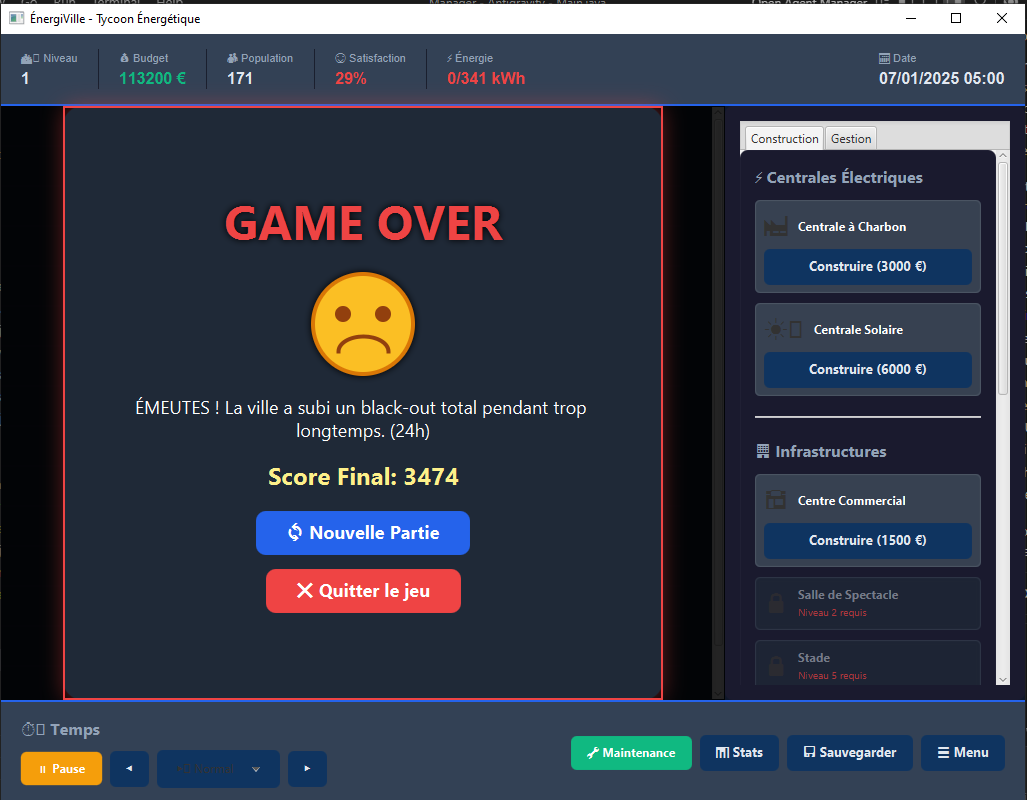
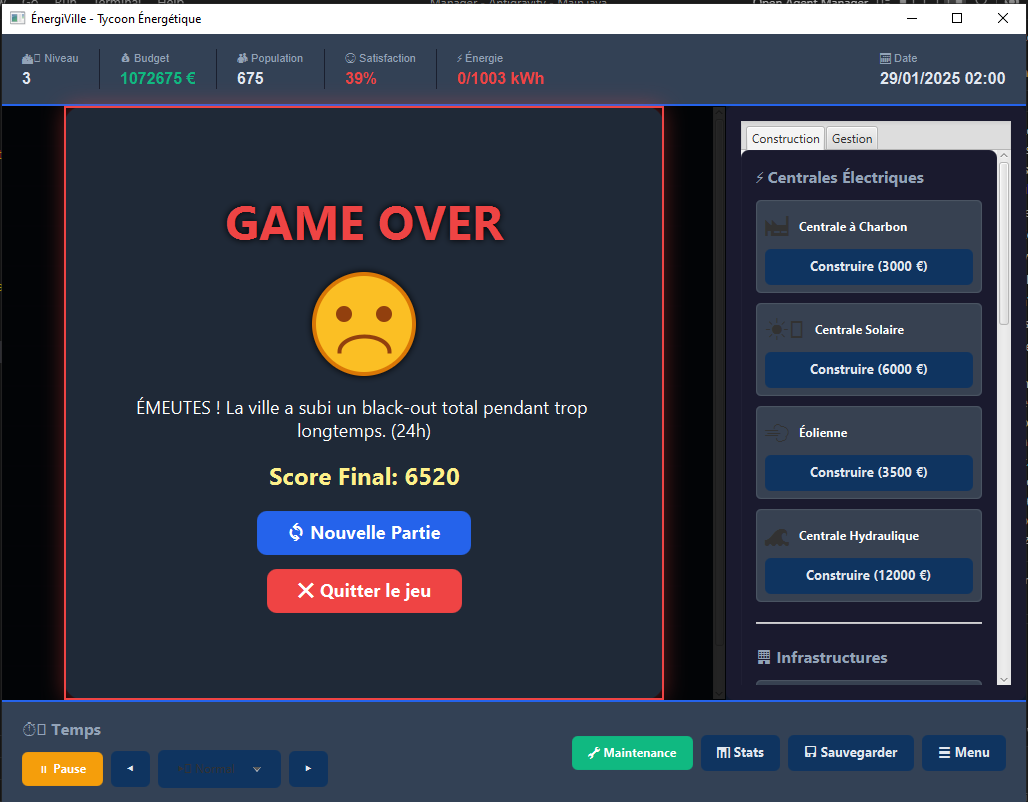
evolution de la ville plus des evenement aleatoire

diff --git a/src/main/java/org/td/model/simulation/RandomEventManager.java b/src/main/java/org/td/model/simulation/RandomEventManager.java
@@ -1,0 +1,169 @@
+package org.td.model.simulation;
+
+import org.td.model.entities.City;
+import org.td.model.entities.Residence;
+import org.td.model.enums.ResidenceLevel;
+import org.td.model.enums.EventType;
+import org.td.controller.GameEventListener;
+
+import java.io.Serializable;
+import java.util.Random;
+import java.util.ArrayList;
+import java.util.List;
+
+/**
+ * Gère les événements aléatoires (Canicule, Crise, etc.)
+ */
+public class RandomEventManager implements Serializable {
+    private static final long serialVersionUID = 1L;
+
+    private City city;
+    private Random random;
+    private List<GameEventListener> listeners;
+
+    // État de l'événement en cours
+    private GameEvent currentEvent;
+    private int eventDurationRemaining; // En heures de jeu
+
+    // Paramètres
+    private static final double EVENT_PROBABILITY = 0.005; // 0.5% de chance par heure (~1 événement tous les 8-10
+                                                           // jours)
+
+    public RandomEventManager(City city) {
+        this.city = city;
+        this.random = new Random();
+        this.listeners = new ArrayList<>();
+    }
+
+    public void update() {
+        // Si un événement est en cours
+        if (currentEvent != null) {
+            eventDurationRemaining--;
+            if (eventDurationRemaining <= 0) {
+                endCurrentEvent();
+            }
+            return; // Pas de nouvel événement tant qu'un est actif
+        }
+
+        // Tirage au sort d'un nouvel événement
+        if (random.nextDouble() < EVENT_PROBABILITY) {
+            triggerRandomEvent();
+        }
+    }
+
+    private void triggerRandomEvent() {
+        GameEvent[] events = GameEvent.values();
+        GameEvent newEvent = events[random.nextInt(events.length)];
+        startEvent(newEvent);
+    }
+
+    public void startEvent(GameEvent event) {
+        this.currentEvent = event;
+        // Durée aléatoire entre min et max (en heures)
+        this.eventDurationRemaining = event.getMinDuration()
+                + random.nextInt(event.getMaxDuration() - event.getMinDuration());
+
+        applyEventEffects(event, true);
+        notifyEvent("⚠ ÉVÉNEMENT : " + event.getDisplayName(), EventType.WARNING);
+        notifyEvent(event.getDescription(), EventType.INFO);
+    }
+
+    private void endCurrentEvent() {
+        if (currentEvent != null) {
+            notifyEvent("✅ FIN DE L'ÉVÉNEMENT : " + currentEvent.getDisplayName(), EventType.SUCCESS);
+            applyEventEffects(currentEvent, false);
+            currentEvent = null;
+        }
+    }
+
+    private void applyEventEffects(GameEvent event, boolean isActive) {
+        switch (event) {
+            case HEATWAVE:
+                // +50% Demande énergétique
+                city.setGlobalEnergyDemandMultiplier(isActive ? 1.5 : 1.0);
+                break;
+            case COLD_SNAP:
+                // +30% Demande énergétique
+                city.setGlobalEnergyDemandMultiplier(isActive ? 1.3 : 1.0);
+                break;
+            case ECONOMIC_CRISIS:
+                // -40% Revenus
+                city.setGlobalRevenueMultiplier(isActive ? 0.6 : 1.0);
+                break;
+            case BABY_BOOM:
+                if (isActive) {
+                    // Effet instantané : on ajoute 3 à 5 résidences
+                    int buildingsToAdd = 3 + random.nextInt(3);
+                    for (int i = 0; i < buildingsToAdd; i++) {
+                        int x = 100 + random.nextInt(800);
+                        int y = 100 + random.nextInt(600);
+                        city.addBuilding(new Residence(ResidenceLevel.BASIC, x, y));
+                    }
+                    notifyEvent("👶 " + buildingsToAdd + " nouvelles résidences construites !", EventType.SUCCESS);
+                    // Cet événement n'a pas de durée continue, on le termine tout de suite
+                    currentEvent = null;
+                }
+                break;
+            case GRID_FAILURE:
+                // TODO: Implémenter impact stabilité réseau si on avait ce détail
+                // Pour l'instant on simule par une hausse massive de demande (court-circuit ?)
+                // ou on pourrait toucher à l'efficacité des centrales.
+                // Disons +20% Demand pour simuler les pertes
+                city.setGlobalEnergyDemandMultiplier(isActive ? 1.2 : 1.0);
+                break;
+        }
+    }
+
+    // === GESTION LISTENERS ===
+
+    public void addListener(GameEventListener listener) {
+        listeners.add(listener);
+    }
+
+    private void notifyEvent(String message, EventType type) {
+        for (GameEventListener listener : listeners) {
+            listener.onGameEvent(message, type);
+        }
+    }
+
+    // === ENUM DES EVENTS ===
+
+    public enum GameEvent {
+        HEATWAVE("Canicule", "La chaleur est insupportable ! La demande en climatisation explose.", 48, 72),
+        COLD_SNAP("Vague de Froid", "Un froid polaire s'abat sur la ville. Le chauffage tourne à plein régime.", 48,
+                72),
+        ECONOMIC_CRISIS("Crise Économique", "Le marché s'effondre. Les revenus sont réduits de 40%.", 72, 120),
+        BABY_BOOM("Boom Démographique", "La ville attire de nouveaux habitants ! Construction immédiate de logements.",
+                1, 2),
+        GRID_FAILURE("Instabilité du Réseau", "Des perturbations magnétiques affectent le transport d'électricité.", 12,
+                24);
+
+        private final String displayName;
+        private final String description;
+        private final int minDuration;
+        private final int maxDuration;
+
+        GameEvent(String displayName, String description, int minDuration, int maxDuration) {
+            this.displayName = displayName;
+            this.description = description;
+            this.minDuration = minDuration;
+            this.maxDuration = maxDuration;
+        }
+
+        public String getDisplayName() {
+            return displayName;
+        }
+
+        public String getDescription() {
+            return description;
+        }
+
+        public int getMinDuration() {
+            return minDuration;
+        }
+
+        public int getMaxDuration() {
+            return maxDuration;
+        }
+    }
+}

diff --git a/src/main/java/org/td/model/entities/City.java b/src/main/java/org/td/model/entities/City.java
@@ -40,6 +40,10 @@ public class City implements Serializable {
     private int consecutiveHappyHours; // Heures consécutives avec bonheur > 70
     private int consecutiveUnhappyHours; // Heures consécutives avec bonheur < 30
 
+    // Multiplicateurs d'événements
+    private double globalEnergyDemandMultiplier = 1.0;
+    private double globalRevenueMultiplier = 1.0;
+
     // Game Over stats
     private boolean isGameOver = false;
     private String gameOverReason = "";
@@ -178,6 +182,9 @@ public class City implements Serializable {
                 .mapToDouble(Infrastructure::getEnergyConsumption)
                 .sum();
 
+        // Application du multiplicateur d'événement (ex: Canicule)
+        totalEnergyDemand *= globalEnergyDemandMultiplier;
+
         energyBalance = totalEnergyProduction - totalEnergyDemand;
 
         // Distribution d'électricité
@@ -230,6 +237,9 @@ public class City implements Serializable {
         totalRevenue += infrastructures.stream()
                 .mapToDouble(Infrastructure::getHourlyRevenue)
                 .sum();
+
+        // Application du multiplicateur d'événement (ex: Crise économique)
+        totalRevenue *= globalRevenueMultiplier;
 
         // Dépenses des centrales
         totalExpenses += powerPlants.stream()
@@ -675,5 +685,21 @@ public class City implements Serializable {
 
     public List<Double> getEnergyHistory() {
         return energyHistory;
+    }
+
+    public void setGlobalEnergyDemandMultiplier(double multiplier) {
+        this.globalEnergyDemandMultiplier = multiplier;
+    }
+
+    public void setGlobalRevenueMultiplier(double multiplier) {
+        this.globalRevenueMultiplier = multiplier;
+    }
+
+    public double getGlobalEnergyDemandMultiplier() {
+        return globalEnergyDemandMultiplier;
+    }
+
+    public double getGlobalRevenueMultiplier() {
+        return globalRevenueMultiplier;
     }
 }

diff --git a/src/main/java/org/td/model/simulation/TimeManager.java b/src/main/java/org/td/model/simulation/TimeManager.java
@@ -149,9 +149,14 @@ public class TimeManager {
         boolean isBlackout = energyDemand > 0 && (energyProduction / energyDemand < 0.5);
 
         if (isBlackout) {
-            consecutiveZeroHappiness++; // On réutilise cette variable ou on en crée une propre
-            // TODO: Renommer la variable pour être plus clair, mais pour l'instant ça
-            // marche
+            consecutiveZeroHappiness++;
+
+            // Warnings pour prévenir le joueur
+            if (consecutiveZeroHappiness == 12) {
+                notifyWarning("⚠ ATTENTION : Black-out prolongé ! Risque d'émeutes.");
+            } else if (consecutiveZeroHappiness == 36) {
+                notifyWarning("🚨 DANGER : Émeutes imminentes ! Rétablissez le courant VITE !");
+            }
         } else {
             // On ne reset que si le bonheur est AUSSI bon.
             // Si on a du courant mais que les gens sont malheureux (0%), on garde le
@@ -161,9 +166,9 @@ public class TimeManager {
             }
         }
 
-        // Seuil: 24h de crise (blackout OU bonheur nulle)
-        if (consecutiveZeroHappiness >= 24) {
-            city.setGameOverReason("ÉMEUTES ! La ville a subi un black-out total pendant trop longtemps. (24h)");
+        // Seuil: 48h de crise (au lieu de 24h)
+        if (consecutiveZeroHappiness >= 48) {
+            city.setGameOverReason("ÉMEUTES ! La ville a subi un black-out total pendant trop longtemps. (48h)");
             notifyGameOver();
             pause();
         }
@@ -295,6 +300,12 @@ public class TimeManager {
     private void notifyGameOver() {
         for (TimeListener listener : listeners) {
             listener.onGameOver(city.getGameOverReason());
+        }
+    }
+
+    private void notifyWarning(String message) {
+        for (TimeListener listener : listeners) {
+            listener.onWarning(message);
         }
     }
 

diff --git a/src/main/java/org/td/model/GameState.java b/src/main/java/org/td/model/GameState.java
@@ -22,6 +22,7 @@ public class GameState implements Serializable {
     private EnergySimulator energySimulator;
     private EconomyManager economyManager;
     private PopulationManager populationManager;
+    private RandomEventManager randomEventManager; // Nouveau
 
     // État du jeu
     private GameStatus status;
@@ -55,6 +56,7 @@ public class GameState implements Serializable {
         this.energySimulator = new EnergySimulator(city);
         this.economyManager = new EconomyManager(city);
         this.populationManager = new PopulationManager(city);
+        this.randomEventManager = new RandomEventManager(city); // Nouveau
 
         // Liaison pour synchronisation
         this.city.setPopulationManager(this.populationManager);
@@ -148,8 +150,10 @@ public class GameState implements Serializable {
 
         // Mise à jour des gestionnaires
         energySimulator.update();
+        energySimulator.update();
         economyManager.update();
         populationManager.update();
+        randomEventManager.update(); // Mettre à jour les événements
 
         // Vérification objectifs et succès
         checkObjectives();
@@ -366,6 +370,10 @@ public class GameState implements Serializable {
 
     public PopulationManager getPopulationManager() {
         return populationManager;
+    }
+
+    public RandomEventManager getRandomEventManager() {
+        return randomEventManager;
     }
 
     public GameStatus getStatus() {

diff --git a/src/main/java/org/td/model/simulation/TimeListener.java b/src/main/java/org/td/model/simulation/TimeListener.java
@@ -2,15 +2,33 @@ package org.td.model.simulation;
 
 import org.td.model.enums.GameSpeed;
 
-import java.time.LocalDateTime; /**
+import java.time.LocalDateTime;
+
+/**
  * Interface pour écouter les événements temporels
  */
 public interface TimeListener {
-    default void onTimeAdvanced(LocalDateTime currentTime) {}
-    default void onNewDay(LocalDateTime currentTime) {}
-    default void onNewMonth(LocalDateTime currentTime) {}
-    default void onPaused() {}
-    default void onResumed() {}
-    default void onSpeedChanged(GameSpeed newSpeed) {}
-    default void onGameOver(String reason) {}
+    default void onTimeAdvanced(LocalDateTime currentTime) {
+    }
+
+    default void onNewDay(LocalDateTime currentTime) {
+    }
+
+    default void onNewMonth(LocalDateTime currentTime) {
+    }
+
+    default void onPaused() {
+    }
+
+    default void onResumed() {
+    }
+
+    default void onSpeedChanged(GameSpeed newSpeed) {
+    }
+
+    default void onGameOver(String reason) {
+    }
+
+    default void onWarning(String message) {
+    }
 }

diff --git a/src/main/java/org/td/controller/GameController.java b/src/main/java/org/td/controller/GameController.java
@@ -84,6 +84,11 @@ public class GameController {
 
         // Écouter les événements du TimeManager
         setupTimeListeners();
+
+        // Écouter les événements aléatoires
+        gameState.getRandomEventManager().addListener((msg, type) -> {
+            javafx.application.Platform.runLater(() -> sendNotification(msg, type));
+        });
     }
 
     /**
@@ -115,6 +120,11 @@ public class GameController {
             @Override
             public void onGameOver(String reason) {
                 Platform.runLater(() -> handleGameOver(reason));
+            }
+
+            @Override
+            public void onWarning(String message) {
+                Platform.runLater(() -> notifyWarning(message));
             }
         });
     }
